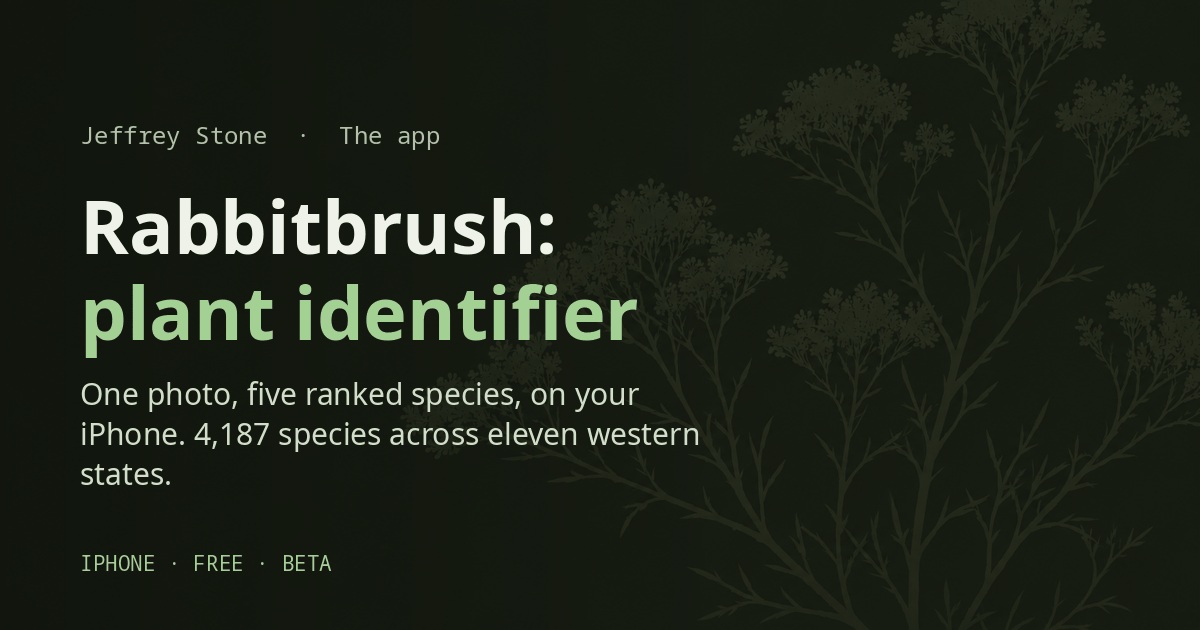
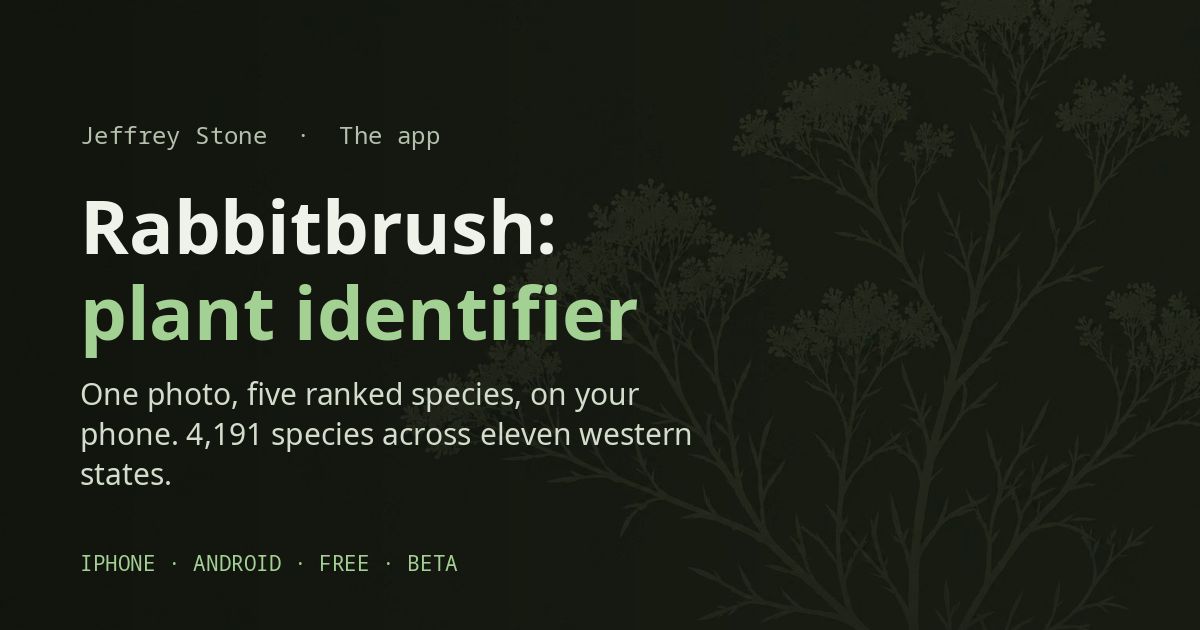
Publish site

Changed region(s): [[0.0617, 0.6635, 0.5858, 0.7238], [0.1542, 0.8746, 0.3083, 0.9048], [0.3392, 0.8746, 0.4008, 0.9048]]

diff --git a/rabbitbrush/index.html b/rabbitbrush/index.html
@@ -4,20 +4,20 @@
 <meta charset="utf-8">
 <meta name="viewport" content="width=device-width, initial-scale=1">
 <title>Rabbitbrush | Jeffrey Stone</title>
-<meta name="description" content="Rabbitbrush, a plant identifier for the western US that runs on your iPhone. One photo, a ranked list of five species. Free, in TestFlight beta.">
+<meta name="description" content="Rabbitbrush, a plant identifier for the western US that runs on your phone. One photo, a ranked list of five species. Free, in beta.">
 <meta name="color-scheme" content="dark">
 <meta property="og:title" content="Rabbitbrush: a plant identifier for the western US">
-<meta property="og:description" content="One photo, five ranked species, on your iPhone. Free, in beta.">
+<meta property="og:description" content="One photo, five ranked species, on your phone. Free, in beta.">
 <meta property="og:type" content="website">
 <meta property="og:site_name" content="Jeffrey Stone">
 <meta property="og:url" content="https://jeffrey-stone.com/rabbitbrush/">
 <meta property="og:image" content="https://jeffrey-stone.com/assets/og-rabbitbrush.png">
 <meta property="og:image:width" content="1200">
 <meta property="og:image:height" content="630">
-<meta property="og:image:alt" content="Rabbitbrush: plant identifier. One photo, five ranked species, on your iPhone.">
+<meta property="og:image:alt" content="Rabbitbrush: plant identifier. One photo, five ranked species, on your phone.">
 <meta name="twitter:card" content="summary_large_image">
 <meta name="twitter:title" content="Rabbitbrush: a plant identifier for the western US">
-<meta name="twitter:description" content="One photo, five ranked species, on your iPhone. Free, in beta.">
+<meta name="twitter:description" content="One photo, five ranked species, on your phone. Free, in beta.">
 <meta name="twitter:image" content="https://jeffrey-stone.com/assets/og-rabbitbrush.png">
 <link rel="icon" type="image/svg+xml" href="../assets/icon.svg">
 <link rel="icon" href="../assets/apple-touch-icon.png" sizes="180x180">
@@ -46,16 +46,24 @@
   <div class="wrap">
     <div class="flag">
       <p class="eyebrow" style="margin:0;">The app</p>
-      <span class="badge">iPhone beta</span>
+      <span class="badge">iPhone &amp; Android beta</span>
     </div>
     <h1>Rabbitbrush: a plant identifier for the western US, on your phone</h1>
-    <p class="lede">Take a photo of a plant, or pick one from your library, and get a ranked list of five species, each with its common name and a Wikipedia link. The classifier runs on the iPhone's Neural Engine in about a quarter of a second a photo. Nothing is uploaded to identify a photo.</p>
+    <p class="lede">Take a photo of a plant, or pick one from your library, and get a ranked list of five species, each with its common name and a Wikipedia link. The classifier runs on the phone, on an iPhone in about a quarter of a second a photo. Nothing is uploaded to identify a photo.</p>
     <div class="cta-row" style="margin-top:22px;">
       <a class="btn btn-ghost" href="https://apps.apple.com/app/testflight/id899247664" target="_blank" rel="noopener">1 &middot; Get TestFlight</a>
       <a class="btn btn-primary" href="https://testflight.apple.com/join/nxtp4PD4" target="_blank" rel="noopener">2 &middot; Join the beta &rarr;</a>
     </div>
     <p class="mono-line muted" style="margin-top:12px; font-size:13px;">Already have <b>TestFlight</b>? Go straight to step 2 &middot; iPhone, iOS 18 or later &middot; limited spots.</p>
     <p class="mono-line muted" style="margin-top:6px; font-size:13px;">If TestFlight asks for a redemption code, there isn't one. Close it, come back here, and tap <b>Join</b> again.</p>
+    <p class="lede" style="margin-top:28px;">On Android, the beta runs through Google Play. Play admits testers by a Google Group, so joining the group comes first.</p>
+    <div class="cta-row" style="margin-top:14px;">
+      <a class="btn btn-primary" href="https://groups.google.com/g/rabbitbrush-testers" target="_blank" rel="noopener">1 &middot; Join the testers group</a>
+      <a class="btn btn-ghost" href="https://play.google.com/apps/testing/com.justtinkering.botanid" target="_blank" rel="noopener">2 &middot; Become a tester</a>
+      <a class="btn btn-ghost" href="https://play.google.com/store/apps/details?id=com.justtinkering.botanid" target="_blank" rel="noopener">3 &middot; Get it on Google Play &rarr;</a>
+    </div>
+    <p class="mono-line muted" style="margin-top:12px; font-size:13px;">Do all three on the phone, signed in to the Google account its Play Store uses: press <b>Join group</b>, then <b>Become a tester</b>, then install &middot; Android 10 or later &middot; about 400 MB for the model.</p>
+    <p class="mono-line muted" style="margin-top:6px; font-size:13px;">Step 2 can take a few minutes to open after step 1, and step 3 opens only for testers. If Play says the app is not available, go back a step.</p>
   </div>
 </div>
 
@@ -103,9 +111,9 @@
     <div class="specs">
       <span><b>Builds</b> &nbsp;new ones as the model improves</span>
       <span><b>The model</b> &nbsp;changes between builds as the field checks come in</span>
-      <span><b>Needs</b> &nbsp;an iPhone on iOS 18 or later</span>
+      <span><b>Needs</b> &nbsp;an iPhone on iOS 18 or later, or an Android phone on Android 10 or later</span>
       <span><b>Costs</b> &nbsp;nothing. No ads</span>
-      <span><b>Accounts</b> &nbsp;none to create. Sharing field checks uses the iCloud account already on your phone; without one, nothing is sent</span>
+      <span><b>Accounts</b> &nbsp;none to create. On an iPhone, sharing field checks uses the iCloud account already on the phone; without one, nothing is sent. On Android, sharing needs only a connection</span>
       <span><b>Collects</b> &nbsp;nothing, until you turn sharing on. What sharing sends is listed on the <a href="privacy/">privacy page</a>, item by item</span>
     </div>
 

diff --git a/support/index.html b/support/index.html
@@ -63,12 +63,15 @@
     </div>
     <p class="mono-line muted" style="margin-top:12px; font-size:13px;">Already have <b>TestFlight</b>? Go straight to step 2 &middot; iPhone or iPad &middot; limited spots. Android is below.</p>
     <p class="mono-line muted" style="margin-top:6px; font-size:13px;">If TestFlight asks for a redemption code, there isn't one. Close it, come back here, and tap <b>Join</b> again.</p>
-    <p class="lede" style="margin-top:28px;">On Android, the beta runs through Google Play.</p>
+    <p class="lede" style="margin-top:28px;">On Android, the beta runs through Google Play. Play admits testers by a Google Group, so joining the group comes first.</p>
     <div class="cta-row" style="margin-top:14px;">
-      <!-- the closed test's opt-in page; it answers once the Early testers track is live in the Play Console -->
-      <a class="btn btn-primary" href="https://play.google.com/apps/testing/com.justtinkering.spacewar" target="_blank" rel="noopener">Join the Android beta &rarr;</a>
+      <!-- the closed track's testers are the Google Group; the opt-in page and the store page answer only for an account in it -->
+      <a class="btn btn-primary" href="https://groups.google.com/g/spacewar-testers" target="_blank" rel="noopener">1 &middot; Join the testers group</a>
+      <a class="btn btn-ghost" href="https://play.google.com/apps/testing/com.justtinkering.spacewar" target="_blank" rel="noopener">2 &middot; Become a tester</a>
+      <a class="btn btn-ghost" href="https://play.google.com/store/apps/details?id=com.justtinkering.spacewar" target="_blank" rel="noopener">3 &middot; Get it on Google Play &rarr;</a>
     </div>
-    <p class="mono-line muted" style="margin-top:12px; font-size:13px;">Open the link on your phone, signed in to the Google account you use for Play, accept the invitation, then install from the Play Store page it opens &middot; Android 10 or later.</p>
+    <p class="mono-line muted" style="margin-top:12px; font-size:13px;">Do all three on the phone, signed in to the Google account its Play Store uses: press <b>Join group</b>, then <b>Become a tester</b>, then install &middot; Android 10 or later.</p>
+    <p class="mono-line muted" style="margin-top:6px; font-size:13px;">Step 2 can take a few minutes to open after step 1, and step 3 opens only for testers. If Play says the app is not available, go back a step.</p>
   </div>
 </section>
 
@@ -76,7 +79,7 @@
   <div class="wrap">
     <div class="flag">
       <p class="eyebrow" style="margin:0;">Rabbitbrush: Plant ID</p>
-      <span class="badge">iPhone Beta</span>
+      <span class="badge">iPhone &amp; Android Beta</span>
     </div>
     <p class="lede">A plant identifier for the western US: one photo, five ranked species. <a href="../rabbitbrush/">What it is</a>, and <a href="../rabbitbrush/support/">how the field check teaches the model</a>.</p>
     <div class="cta-row" style="margin-top:22px;">
@@ -86,6 +89,14 @@
     </div>
     <p class="mono-line muted" style="margin-top:12px; font-size:13px;">Already have <b>TestFlight</b>? Go straight to step 2 &middot; iPhone, iOS 18 or later &middot; limited spots.</p>
     <p class="mono-line muted" style="margin-top:6px; font-size:13px;">If TestFlight asks for a redemption code, there isn't one. Close it, come back here, and tap <b>Join</b> again.</p>
+    <p class="lede" style="margin-top:28px;">On Android, the beta runs through Google Play. Play admits testers by a Google Group, so joining the group comes first.</p>
+    <div class="cta-row" style="margin-top:14px;">
+      <a class="btn btn-primary" href="https://groups.google.com/g/rabbitbrush-testers" target="_blank" rel="noopener">1 &middot; Join the testers group</a>
+      <a class="btn btn-ghost" href="https://play.google.com/apps/testing/com.justtinkering.botanid" target="_blank" rel="noopener">2 &middot; Become a tester</a>
+      <a class="btn btn-ghost" href="https://play.google.com/store/apps/details?id=com.justtinkering.botanid" target="_blank" rel="noopener">3 &middot; Get it on Google Play &rarr;</a>
+    </div>
+    <p class="mono-line muted" style="margin-top:12px; font-size:13px;">Do all three on the phone, signed in to the Google account its Play Store uses: press <b>Join group</b>, then <b>Become a tester</b>, then install &middot; Android 10 or later &middot; about 400 MB for the model.</p>
+    <p class="mono-line muted" style="margin-top:6px; font-size:13px;">Step 2 can take a few minutes to open after step 1, and step 3 opens only for testers. If Play says the app is not available, go back a step.</p>
 <!-- /rabbitbrush-join -->
     <p class="mono-line muted" style="margin-top:6px; font-size:13px;">What the app keeps, and what it shares only if you say so: <a href="../rabbitbrush/privacy/">the privacy page</a>.</p>
   </div>

diff --git a/rabbitbrush/support/index.html b/rabbitbrush/support/index.html
@@ -4,7 +4,7 @@
 <meta charset="utf-8">
 <meta name="viewport" content="width=device-width, initial-scale=1">
 <title>Rabbitbrush support | Jeffrey Stone</title>
-<meta name="description" content="Join the Rabbitbrush TestFlight beta, how the field check teaches the model, and how to reach the developer.">
+<meta name="description" content="Join the Rabbitbrush beta on iPhone or Android, how the field check teaches the model, and how to reach the developer.">
 <meta name="color-scheme" content="dark">
 <meta property="og:title" content="Support | Rabbitbrush">
 <meta property="og:description" content="How to join the beta, send feedback and reach the developer.">
@@ -47,13 +47,21 @@
     <p class="crumb"><a href="../">&larr; Rabbitbrush</a></p>
     <p class="eyebrow">Support &amp; feedback</p>
     <h1>Testing Rabbitbrush? Here's how it gets better, and how to reach me</h1>
-    <p class="lede">The field check under every result is the feedback that counts most. TestFlight and email are below it, for everything else.</p>
+    <p class="lede">The field check under every result is the feedback that counts most. The beta links and email are below it, for everything else.</p>
     <div class="cta-row" style="margin-top:22px;">
       <a class="btn btn-ghost" href="https://apps.apple.com/app/testflight/id899247664" target="_blank" rel="noopener">1 &middot; Get TestFlight</a>
       <a class="btn btn-primary" href="https://testflight.apple.com/join/nxtp4PD4" target="_blank" rel="noopener">2 &middot; Join the beta &rarr;</a>
     </div>
     <p class="mono-line muted" style="margin-top:12px; font-size:13px;">Already have <b>TestFlight</b>? Go straight to step 2 &middot; iPhone, iOS 18 or later &middot; limited spots.</p>
     <p class="mono-line muted" style="margin-top:6px; font-size:13px;">If TestFlight asks for a redemption code, there isn't one. Close it, come back here, and tap <b>Join</b> again.</p>
+    <p class="lede" style="margin-top:28px;">On Android, the beta runs through Google Play. Play admits testers by a Google Group, so joining the group comes first.</p>
+    <div class="cta-row" style="margin-top:14px;">
+      <a class="btn btn-primary" href="https://groups.google.com/g/rabbitbrush-testers" target="_blank" rel="noopener">1 &middot; Join the testers group</a>
+      <a class="btn btn-ghost" href="https://play.google.com/apps/testing/com.justtinkering.botanid" target="_blank" rel="noopener">2 &middot; Become a tester</a>
+      <a class="btn btn-ghost" href="https://play.google.com/store/apps/details?id=com.justtinkering.botanid" target="_blank" rel="noopener">3 &middot; Get it on Google Play &rarr;</a>
+    </div>
+    <p class="mono-line muted" style="margin-top:12px; font-size:13px;">Do all three on the phone, signed in to the Google account its Play Store uses: press <b>Join group</b>, then <b>Become a tester</b>, then install &middot; Android 10 or later &middot; about 400 MB for the model.</p>
+    <p class="mono-line muted" style="margin-top:6px; font-size:13px;">Step 2 can take a few minutes to open after step 1, and step 3 opens only for testers. If Play says the app is not available, go back a step.</p>
   </div>
 </div>
 
@@ -71,6 +79,7 @@
         <ul>
           <li>In the app, take a screenshot &rarr; <b>Send Beta Feedback</b></li>
           <li>Or use <b>Send Feedback</b> on the app's TestFlight page</li>
+          <li>On Android, email a screenshot to <a href="mailto:support@jeffrey-stone.com">support@jeffrey-stone.com</a></li>
         </ul>
       </div>
     </div>
@@ -79,7 +88,7 @@
         <h3>Get in touch</h3>
         <p>Questions, bug reports, or anything else about Rabbitbrush:</p>
         <p class="mono-line"><a href="mailto:support@jeffrey-stone.com">support@jeffrey-stone.com</a></p>
-        <p style="margin-top:16px;">For a bug report, include the build (Settings shows it), the phone model and the iOS version.</p>
+        <p style="margin-top:16px;">For a bug report, include the build (Settings shows it), the phone model and the OS version.</p>
       </div>
       <div class="card">
         <h3>Remove what you shared</h3>

diff --git a/privacy/index.html b/privacy/index.html
@@ -99,8 +99,8 @@
       <p>Data collected, optional, not shared with third parties, not linked to your identity: Photos (the photo copy of a field check), Other user-generated content (the field check and note), App interactions (the ranked list and the app's reading), Approximate location (the 1-degree square, only with Location on), Device or other IDs (the random install id). Purpose: analytics and app functionality (improving the classifier). Encrypted in transit; deleted on request. Nothing is collected unless sharing is on.</p>
       <h2 class="sub-label" style="margin-top:44px;">Contact</h2>
       <p>Questions, bug reports and removal requests go to the support page, <a href="../rabbitbrush/support/">jeffrey-stone.com/rabbitbrush/support/</a>, or to <a href="mailto:support@jeffrey-stone.com">support@jeffrey-stone.com</a>. A removal request quotes the install id shown under Settings &gt; Sharing; nothing else identifies the records.</p>
-      <h2 class="sub-label" style="margin-top:44px;">TestFlight</h2>
-      <p>TestFlight is Apple's. Whatever it collects in distributing the beta is governed by <a href="https://www.apple.com/legal/privacy/">Apple's privacy policy</a>, not this one.</p>
+      <h2 class="sub-label" style="margin-top:44px;">TestFlight and Google Play</h2>
+      <p>TestFlight is Apple's and Google Play is Google's. Whatever either collects in distributing the beta is governed by <a href="https://www.apple.com/legal/privacy/">Apple's privacy policy</a> or <a href="https://policies.google.com/privacy">Google's privacy policy</a>, not this one.</p>
       <p class="mono-line muted" style="font-family:var(--font-mono); font-size:14px; margin-top:36px; color:var(--muted);">Questions: <a href="../support/">support</a> &nbsp;·&nbsp; <a href="mailto:support@jeffrey-stone.com">support@jeffrey-stone.com</a> &nbsp;·&nbsp; Last updated November 5, 2026</p>
       <p class="mono-line muted" style="font-family:var(--font-mono); font-size:14px; margin-top:10px; color:var(--muted);">The app's own page: <a href="../rabbitbrush/privacy/">jeffrey-stone.com/rabbitbrush/privacy/</a></p>
     </div>

diff --git a/rabbitbrush/privacy/index.html b/rabbitbrush/privacy/index.html
@@ -69,8 +69,8 @@
       <p>Data collected, optional, not shared with third parties, not linked to your identity: Photos (the photo copy of a field check), Other user-generated content (the field check and note), App interactions (the ranked list and the app's reading), Approximate location (the 1-degree square, only with Location on), Device or other IDs (the random install id). Purpose: analytics and app functionality (improving the classifier). Encrypted in transit; deleted on request. Nothing is collected unless sharing is on.</p>
       <h2 class="sub-label" style="margin-top:44px;">Contact</h2>
       <p>Questions, bug reports and removal requests go to the support page, <a href="../support/">jeffrey-stone.com/rabbitbrush/support/</a>, or to <a href="mailto:support@jeffrey-stone.com">support@jeffrey-stone.com</a>. A removal request quotes the install id shown under Settings &gt; Sharing; nothing else identifies the records.</p>
-      <h2 class="sub-label" style="margin-top:44px;">TestFlight</h2>
-      <p>TestFlight is Apple's. Whatever it collects in distributing the beta is governed by <a href="https://www.apple.com/legal/privacy/">Apple's privacy policy</a>, not this one.</p>
+      <h2 class="sub-label" style="margin-top:44px;">TestFlight and Google Play</h2>
+      <p>TestFlight is Apple's and Google Play is Google's. Whatever either collects in distributing the beta is governed by <a href="https://www.apple.com/legal/privacy/">Apple's privacy policy</a> or <a href="https://policies.google.com/privacy">Google's privacy policy</a>, not this one.</p>
       <p class="mono-line muted" style="font-family:var(--font-mono); font-size:14px; margin-top:36px; color:var(--muted);">Questions: <a href="../support/">support</a> &nbsp;·&nbsp; <a href="mailto:support@jeffrey-stone.com">support@jeffrey-stone.com</a> &nbsp;·&nbsp; Last updated November 5, 2026</p>
     </div>
   </div>

diff --git a/index.html b/index.html
@@ -129,10 +129,10 @@
   <div class="wrap">
     <div class="creed" style="max-width:44em;">
       <div class="line"><span class="k">Made by</span><span>Jeffrey Stone, solo developer, from design to code to release.</span></div>
-      <div class="line"><span class="k">Platform</span><span>Spacewar: iPhone, iPad and Android phones, one-finger playable. Rabbitbrush: iPhone.</span></div>
+      <div class="line"><span class="k">Platform</span><span>Spacewar: iPhone, iPad and Android phones, one-finger playable. Rabbitbrush: iPhone and Android phones.</span></div>
       <div class="line"><span class="k">Price</span><span>Free, and always will be: no ads, no paywalls. The site and the game collect nothing; Rabbitbrush collects nothing unless you turn sharing on.</span></div>
       <div class="line"><span class="k">Tip jar</span><span>If a game or a notebook made your day, you can <a href="https://buymeacoffee.com/jeffreystone">buy me a coffee</a>.</span></div>
-      <div class="line"><span class="k">Now</span><span>Spacewar: Orbital Duel, in beta on iOS and Android. <a href="rabbitbrush/">Rabbitbrush</a>, a plant identifier for the western US, in beta on iPhone (<a href="rabbitbrush/support/">testers, start here</a>).</span></div>
+      <div class="line"><span class="k">Now</span><span>Spacewar: Orbital Duel, in beta on iOS and Android. <a href="rabbitbrush/">Rabbitbrush</a>, a plant identifier for the western US, in beta on iPhone and Android (<a href="rabbitbrush/support/">testers, start here</a>).</span></div>
     </div>
   </div>
 </section>
